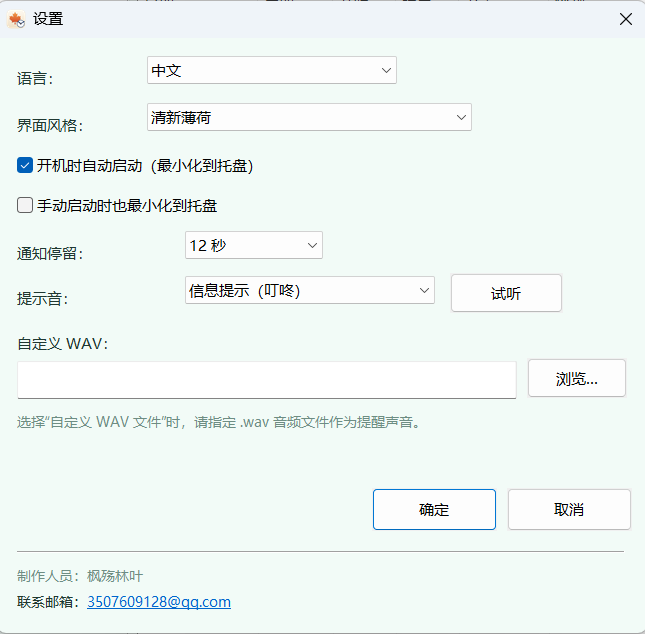
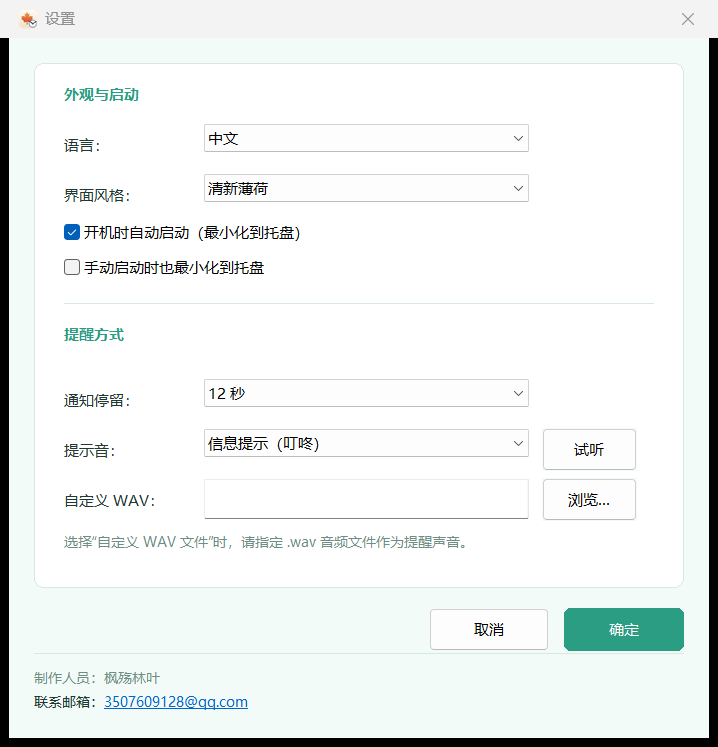
设置窗口改为与主界面统一的卡片式两栏布局，适配中日英三语

diff --git a/main.cpp b/main.cpp
@@ -1,4 +1,4 @@
-/*
+/*
 ============================================================================
   时间管理器（Time-Manager）v2
 ----------------------------------------------------------------------------
@@ -324,6 +324,7 @@ static const wchar_t* g_fontFamily = L"Microsoft YaHei UI";
 static int    g_dpi = 96;
 static HBRUSH g_hBgBrush = NULL;    /* 主窗口页面底色 */
 static HBRUSH g_hDlgBrush = NULL;   /* 对话框底色 */
+static HBRUSH g_hCardBrush = NULL;  /* 对话框卡片底色 */
 static const struct Theme* g_theme = NULL;
 
 static HWND   g_hMain = NULL;
@@ -491,6 +492,8 @@ enum { LANG_ZH = 0, LANG_JA = 1, LANG_EN = 2, LANG_COUNT = 3 };
     X(ERR_TIME_ORDER,  L"结束时间不能早于开始时间。", L"終了時刻は開始時刻より後にしてください。", L"The end time cannot be earlier than the start time.") \
     X(ERR_TITLE_EMPTY, L"请填写任务标题。", L"タイトルを入力してください。", L"Please enter a title.") \
     X(SET_TITLE,       L"设置", L"設定", L"Settings") \
+    X(SET_SEC_APPEAR,  L"外观与启动", L"外観と起動", L"Appearance & Startup") \
+    X(SET_SEC_ALERT,   L"提醒方式", L"通知", L"Notifications") \
     X(SET_LANG,        L"语言：", L"言語：", L"Language:") \
     X(SET_THEME,       L"界面风格：", L"テーマ：", L"Theme:") \
     X(THEME_CLASSIC,   L"经典白", L"クラシック", L"Classic") \
@@ -502,7 +505,7 @@ enum { LANG_ZH = 0, LANG_JA = 1, LANG_EN = 2, LANG_COUNT = 3 };
     X(LANG_EN,         L"English", L"English", L"English") \
     X(SET_AUTOSTART,   L"开机时自动启动（最小化到托盘）", L"ログイン時に自動起動（トレイに最小化）", L"Start automatically at login (minimized to tray)") \
     X(SET_MINSTART,    L"手动启动时也最小化到托盘", L"手動起動時もトレイに最小化", L"Also minimize to tray on manual start") \
-    X(SET_DURATION,    L"通知停留：", L"通知の表示時間：", L"Show notification for:") \
+    X(SET_DURATION,    L"通知停留：", L"通知の表示：", L"Show for:") \
     X(SET_SECONDS,     L"%d 秒", L"%d 秒", L"%d sec") \
     X(SET_SOUND,       L"提示音：", L"通知音：", L"Sound:") \
     X(SND_MUTE,        L"静音（不播放）", L"消音（再生しない）", L"Mute") \
@@ -2855,14 +2858,124 @@ void ShowAddDialog(void)
 
 /*============================= “设置”窗口 =============================*/
 
+/* 卡片式布局参数：创建控件与自绘卡片共用同一套坐标 */
+#define SETDLG_CW        S(560)
+#define SETDLG_CH        S(560)
+#define SETDLG_M         S(20)
+#define SETDLG_CARD_W    S(520)
+#define SETDLG_CARD_H    S(420)
+#define SETDLG_PX        S(24)
+#define SETDLG_LABEL_X   (SETDLG_M + SETDLG_PX)
+#define SETDLG_CTRL_X    (SETDLG_LABEL_X + S(112))
+#define SETDLG_CTRL_W    S(260)
+#define SETDLG_BTN_W     S(96)
+#define SETDLG_BTN_H     S(34)
+
+/* 白色圆角卡片 + 1px 边框，与主界面日历卡片同一视觉语言 */
+static void SetDlgFillCard(HDC hdc, const RECT* rc)
+{
+    HBRUSH br = CreateSolidBrush(g_theme->card);
+    HPEN pen = CreatePen(PS_SOLID, 1, g_theme->border);
+    HGDIOBJ oldBrush = SelectObject(hdc, br);
+    HGDIOBJ oldPen = SelectObject(hdc, pen);
+    RoundRect(hdc, rc->left, rc->top, rc->right, rc->bottom, S(14), S(14));
+    SelectObject(hdc, oldBrush);
+    SelectObject(hdc, oldPen);
+    DeleteObject(br);
+    DeleteObject(pen);
+}
+
+static void SetDlgHairline(HDC hdc, int x1, int x2, int y)
+{
+    RECT rc;
+    SetRect(&rc, x1, y, x2, y + 1);
+    HBRUSH br = CreateSolidBrush(g_theme->border);
+    FillRect(hdc, &rc, br);
+    DeleteObject(br);
+}
+
+/* 对话框背景：卡片 + 分区标题 + 两条分隔线 */
+static void SetDlgPaint(HWND hWnd)
+{
+    PAINTSTRUCT ps;
+    HDC hdc = BeginPaint(hWnd, &ps);
+
+    RECT rc;
+    GetClientRect(hWnd, &rc);
+    FillRect(hdc, &rc, g_hDlgBrush);
+
+    RECT card;
+    SetRect(&card, SETDLG_M, SETDLG_M,
+        SETDLG_M + SETDLG_CARD_W, SETDLG_M + SETDLG_CARD_H);
+    SetDlgFillCard(hdc, &card);
+
+    HGDIOBJ oldFont = SelectObject(hdc, g_fontBold);
+    SetBkMode(hdc, TRANSPARENT);
+    SetTextColor(hdc, g_theme->accent);
+
+    RECT t;
+    SetRect(&t, SETDLG_LABEL_X, SETDLG_M + S(12),
+        SETDLG_M + SETDLG_CARD_W - SETDLG_PX, SETDLG_M + S(38));
+    DrawTextW(hdc, Str(STR_SET_SEC_APPEAR), -1, &t,
+        DT_LEFT | DT_VCENTER | DT_SINGLELINE | DT_NOPREFIX);
+
+    SetRect(&t, SETDLG_LABEL_X, SETDLG_M + S(204),
+        SETDLG_M + SETDLG_CARD_W - SETDLG_PX, SETDLG_M + S(230));
+    DrawTextW(hdc, Str(STR_SET_SEC_ALERT), -1, &t,
+        DT_LEFT | DT_VCENTER | DT_SINGLELINE | DT_NOPREFIX);
+
+    SelectObject(hdc, oldFont);
+
+    /* 分组分隔线 + 页脚分隔线 */
+    SetDlgHairline(hdc, SETDLG_LABEL_X, SETDLG_M + SETDLG_CARD_W - SETDLG_PX,
+        SETDLG_M + S(192));
+    SetDlgHairline(hdc, SETDLG_M, SETDLG_M + SETDLG_CARD_W,
+        SETDLG_M + SETDLG_CARD_H + S(52));
+
+    EndPaint(hWnd, &ps);
+}
+
+/* 主按钮：强调色填充 + 白字；其余按钮保持系统原生风格 */
+static void SetDlgDrawOk(LPDRAWITEMSTRUCT dis)
+{
+    COLORREF fill = (dis->itemState & ODS_SELECTED)
+        ? g_theme->accentDark : g_theme->accent;
+    HBRUSH br = CreateSolidBrush(fill);
+    HPEN pen = CreatePen(PS_SOLID, 1, fill);
+    HGDIOBJ oldBrush = SelectObject(dis->hDC, br);
+    HGDIOBJ oldPen = SelectObject(dis->hDC, pen);
+    RECT rc = dis->rcItem;
+    RoundRect(dis->hDC, rc.left, rc.top, rc.right, rc.bottom, S(10), S(10));
+    SelectObject(dis->hDC, oldBrush);
+    SelectObject(dis->hDC, oldPen);
+    DeleteObject(br);
+    DeleteObject(pen);
+
+    wchar_t text[64];
+    GetWindowTextW(dis->hwndItem, text, 64);
+    SetBkMode(dis->hDC, TRANSPARENT);
+    SetTextColor(dis->hDC, RGB(255, 255, 255));
+    HGDIOBJ oldFont = SelectObject(dis->hDC, g_fontUi);
+    DrawTextW(dis->hDC, text, -1, &rc, DT_CENTER | DT_VCENTER | DT_SINGLELINE);
+    if (dis->itemState & ODS_FOCUS)
+    {
+        RECT f = rc;
+        InflateRect(&f, -S(4), -S(4));
+        DrawFocusRect(dis->hDC, &f);
+    }
+    SelectObject(dis->hDC, oldFont);
+}
+
 static BOOL SetDlg_OnCreate(HWND hWnd)
 {
     g_dlgSet = g_set;
 
-    CreateLabel(hWnd, Str(STR_SET_LANG), S(16), S(18), S(100), S(28));
+    /* —— 外观与启动 —— */
+    CreateLabel(hWnd, Str(STR_SET_LANG), SETDLG_LABEL_X, SETDLG_M + S(52),
+        S(112), S(28));
     HWND hLang = CreateWindowExW(0, L"COMBOBOX", L"",
         WS_CHILD | WS_VISIBLE | WS_TABSTOP | CBS_DROPDOWNLIST | WS_VSCROLL,
-        S(120), S(14), S(200), S(260),
+        SETDLG_CTRL_X, SETDLG_M + S(49), SETDLG_CTRL_W, S(240),
         hWnd, (HMENU)(LONG_PTR)IDC_SET_LANG, g_hInst, NULL);
     SendMessageW(hLang, CB_ADDSTRING, 0, (LPARAM)Str(STR_LANG_ZH));
     SendMessageW(hLang, CB_ADDSTRING, 0, (LPARAM)Str(STR_LANG_JA));
@@ -2873,42 +2986,45 @@ static BOOL SetDlg_OnCreate(HWND hWnd)
     }
     SendMessageW(hLang, CB_SETCURSEL, g_dlgSet.lang, 0);
 
-    /* 界面风格 */
-    CreateLabel(hWnd, Str(STR_SET_THEME), S(16), S(56), S(100), S(28));
-    HWND hTheme = CreateWindowExW(0, L"COMBOBOX", L"",
+    CreateLabel(hWnd, Str(STR_SET_THEME), SETDLG_LABEL_X, SETDLG_M + S(92),
+        S(112), S(28));
+    HWND hThemeBox = CreateWindowExW(0, L"COMBOBOX", L"",
         WS_CHILD | WS_VISIBLE | WS_TABSTOP | CBS_DROPDOWNLIST | WS_VSCROLL,
-        S(120), S(52), S(260), S(260),
+        SETDLG_CTRL_X, SETDLG_M + S(89), SETDLG_CTRL_W, S(240),
         hWnd, (HMENU)(LONG_PTR)IDC_SET_THEME, g_hInst, NULL);
     for (int i = 0; i < THEME_COUNT; i++)
     {
-        SendMessageW(hTheme, CB_ADDSTRING, 0, (LPARAM)ThemeStr(i));
+        SendMessageW(hThemeBox, CB_ADDSTRING, 0, (LPARAM)ThemeStr(i));
     }
     if (g_dlgSet.theme < 0 || g_dlgSet.theme >= THEME_COUNT)
     {
         g_dlgSet.theme = THEME_DEFAULT;
     }
-    SendMessageW(hTheme, CB_SETCURSEL, g_dlgSet.theme, 0);
+    SendMessageW(hThemeBox, CB_SETCURSEL, g_dlgSet.theme, 0);
 
     CreateWindowExW(0, L"BUTTON", Str(STR_SET_AUTOSTART),
         WS_CHILD | WS_VISIBLE | WS_TABSTOP | BS_AUTOCHECKBOX,
-        S(16), S(88), S(480), S(28),
+        SETDLG_LABEL_X, SETDLG_M + S(122), S(436), S(26),
         hWnd, (HMENU)(LONG_PTR)IDC_SET_AUTO, g_hInst, NULL);
     Button_SetCheck(GetDlgItem(hWnd, IDC_SET_AUTO),
         g_dlgSet.autostart ? BST_CHECKED : BST_UNCHECKED);
 
     CreateWindowExW(0, L"BUTTON", Str(STR_SET_MINSTART),
         WS_CHILD | WS_VISIBLE | WS_TABSTOP | BS_AUTOCHECKBOX,
-        S(16), S(120), S(480), S(28),
+        SETDLG_LABEL_X, SETDLG_M + S(150), S(436), S(26),
         hWnd, (HMENU)(LONG_PTR)IDC_SET_MIN, g_hInst, NULL);
     Button_SetCheck(GetDlgItem(hWnd, IDC_SET_MIN),
         g_dlgSet.minStart ? BST_CHECKED : BST_UNCHECKED);
 
-    CreateLabel(hWnd, Str(STR_SET_DURATION), S(16), S(158), S(130), S(28));
+    /* —— 提醒方式 —— */
+    const int durList[6] = { 8, 10, 12, 15, 20, 30 };
+
+    CreateLabel(hWnd, Str(STR_SET_DURATION), SETDLG_LABEL_X, SETDLG_M + S(256),
+        S(112), S(28));
     HWND hDur = CreateWindowExW(0, L"COMBOBOX", L"",
         WS_CHILD | WS_VISIBLE | WS_TABSTOP | CBS_DROPDOWNLIST | WS_VSCROLL,
-        S(150), S(154), S(110), S(260),
+        SETDLG_CTRL_X, SETDLG_M + S(253), SETDLG_CTRL_W, S(240),
         hWnd, (HMENU)(LONG_PTR)IDC_SET_DUR, g_hInst, NULL);
-    const int durList[6] = { 8, 10, 12, 15, 20, 30 };
     for (int i = 0; i < 6; i++)
     {
         wchar_t t[32];
@@ -2924,10 +3040,11 @@ static BOOL SetDlg_OnCreate(HWND hWnd)
         SendMessageW(hDur, CB_SETCURSEL, 2, 0);
     }
 
-    CreateLabel(hWnd, Str(STR_SET_SOUND), S(16), S(194), S(130), S(28));
+    CreateLabel(hWnd, Str(STR_SET_SOUND), SETDLG_LABEL_X, SETDLG_M + S(296),
+        S(112), S(28));
     HWND hSound = CreateWindowExW(0, L"COMBOBOX", L"",
         WS_CHILD | WS_VISIBLE | WS_TABSTOP | CBS_DROPDOWNLIST | WS_VSCROLL,
-        S(150), S(190), S(200), S(260),
+        SETDLG_CTRL_X, SETDLG_M + S(293), SETDLG_CTRL_W, S(240),
         hWnd, (HMENU)(LONG_PTR)IDC_SET_SOUND, g_hInst, NULL);
     for (int i = 0; i <= SOUND_WAV; i++)
     {
@@ -2941,39 +3058,39 @@ static BOOL SetDlg_OnCreate(HWND hWnd)
 
     CreateWindowExW(0, L"BUTTON", Str(STR_SET_TEST),
         WS_CHILD | WS_VISIBLE | WS_TABSTOP | BS_PUSHBUTTON,
-        S(362), S(188), S(90), S(32),
+        SETDLG_CTRL_X + SETDLG_CTRL_W + S(10), SETDLG_M + S(292), S(76), S(34),
         hWnd, (HMENU)(LONG_PTR)IDC_SET_TEST, g_hInst, NULL);
 
-    CreateLabel(hWnd, Str(STR_SET_WAV), S(16), S(230), S(130), S(28));
+    CreateLabel(hWnd, Str(STR_SET_WAV), SETDLG_LABEL_X, SETDLG_M + S(336),
+        S(112), S(28));
     CreateWindowExW(WS_EX_CLIENTEDGE, L"EDIT", g_dlgSet.wavPath,
         WS_CHILD | WS_VISIBLE | WS_TABSTOP | ES_AUTOHSCROLL,
-        S(16), S(258), S(400), S(30),
+        SETDLG_CTRL_X, SETDLG_M + S(333), SETDLG_CTRL_W, S(32),
         hWnd, (HMENU)(LONG_PTR)IDC_SET_WAV, g_hInst, NULL);
     CreateWindowExW(0, L"BUTTON", Str(STR_SET_BROWSE),
         WS_CHILD | WS_VISIBLE | WS_TABSTOP | BS_PUSHBUTTON,
-        S(424), S(256), S(80), S(32),
+        SETDLG_CTRL_X + SETDLG_CTRL_W + S(10), SETDLG_M + S(332), S(76), S(34),
         hWnd, (HMENU)(LONG_PTR)IDC_SET_BROWSE, g_hInst, NULL);
 
-    CreateHint(hWnd, Str(STR_SET_HINT), S(16), S(298), S(488), S(46), IDC_SET_HINT);
+    CreateHint(hWnd, Str(STR_SET_HINT), SETDLG_LABEL_X, SETDLG_M + S(374),
+        S(448), S(44), IDC_SET_HINT);
 
+    /* —— 底部按钮：确定（强调色）/ 取消 —— */
     CreateWindowExW(0, L"BUTTON", Str(STR_OK),
-        WS_CHILD | WS_VISIBLE | WS_TABSTOP | BS_DEFPUSHBUTTON,
-        S(300), S(360), S(100), S(34),
+        WS_CHILD | WS_VISIBLE | WS_TABSTOP | BS_OWNERDRAW,
+        SETDLG_M + SETDLG_CARD_W - SETDLG_BTN_W,
+        SETDLG_M + SETDLG_CARD_H + S(16), SETDLG_BTN_W, SETDLG_BTN_H,
         hWnd, (HMENU)(LONG_PTR)IDC_SET_OK, g_hInst, NULL);
     CreateWindowExW(0, L"BUTTON", Str(STR_CANCEL),
         WS_CHILD | WS_VISIBLE | WS_TABSTOP | BS_PUSHBUTTON,
-        S(408), S(360), S(100), S(34),
+        SETDLG_M + SETDLG_CARD_W - SETDLG_BTN_W * 2 - S(12),
+        SETDLG_M + SETDLG_CARD_H + S(16), SETDLG_BTN_W, SETDLG_BTN_H,
         hWnd, (HMENU)(LONG_PTR)IDC_SET_CANCEL, g_hInst, NULL);
 
-    /* 分隔线 + 制作人员 / 联系邮箱 */
-    CreateWindowExW(0, L"STATIC", L"",
-        WS_CHILD | WS_VISIBLE | SS_ETCHEDHORZ,
-        S(16), S(410), S(488), 1,
-        hWnd, (HMENU)(LONG_PTR)IDC_SEPARATOR, g_hInst, NULL);
-
+    /* —— 页脚：制作人员 / 联系邮箱 —— */
     CreateWindowExW(0, L"STATIC", Str(STR_CREDITS_AUTHOR),
         WS_CHILD | WS_VISIBLE | SS_LEFT | SS_CENTERIMAGE,
-        S(16), S(418), S(488), S(22),
+        SETDLG_M, SETDLG_M + SETDLG_CARD_H + S(60), SETDLG_CARD_W, S(22),
         hWnd, (HMENU)(LONG_PTR)IDC_SET_CREDITS, g_hInst, NULL);
 
     wchar_t emailText[256];
@@ -2981,7 +3098,7 @@ static BOOL SetDlg_OnCreate(HWND hWnd)
         L"3507609128@qq.com", L"3507609128@qq.com");
     CreateWindowExW(0, WC_LINK, emailText,
         WS_CHILD | WS_VISIBLE | WS_TABSTOP,
-        S(16), S(442), S(488), S(24),
+        SETDLG_M, SETDLG_M + SETDLG_CARD_H + S(82), SETDLG_CARD_W, S(22),
         hWnd, (HMENU)(LONG_PTR)IDC_SET_EMAIL, g_hInst, NULL);
 
     EnumChildWindows(hWnd, SetFontToChild, (LPARAM)g_fontUi);
@@ -3117,12 +3234,38 @@ LRESULT CALLBACK SetDlgProc(HWND hWnd, UINT message, WPARAM wParam, LPARAM lPara
         SetDlg_OnCreate(hWnd);
         return 0;
 
+    case WM_PAINT:
+        SetDlgPaint(hWnd);
+        return 0;
+
     case WM_ERASEBKGND:
     {
         RECT rc;
         GetClientRect(hWnd, &rc);
         FillRect((HDC)wParam, &rc, g_hDlgBrush);
         return 1;
+    }
+
+    case WM_DRAWITEM:
+    {
+        LPDRAWITEMSTRUCT dis = (LPDRAWITEMSTRUCT)lParam;
+        if (dis->CtlID == IDC_SET_OK)
+        {
+            SetDlgDrawOk(dis);
+            return TRUE;
+        }
+        break;
+    }
+
+    case WM_CTLCOLORBTN:
+    {
+        int id = GetDlgCtrlID((HWND)lParam);
+        HBRUSH br = (id == IDC_SET_AUTO || id == IDC_SET_MIN)
+            ? g_hCardBrush : g_hDlgBrush;
+        SetBkColor((HDC)wParam, (id == IDC_SET_AUTO || id == IDC_SET_MIN)
+            ? g_theme->card : g_theme->dialogBg);
+        SetTextColor((HDC)wParam, g_theme->text);
+        return (LRESULT)br;
     }
 
     case WM_CTLCOLORSTATIC:
@@ -3137,8 +3280,20 @@ LRESULT CALLBACK SetDlgProc(HWND hWnd, UINT message, WPARAM wParam, LPARAM lPara
         {
             SetTextColor((HDC)wParam, g_theme->text);
         }
-        return (LRESULT)g_hDlgBrush;
+        if (id == IDC_SET_CREDITS || id == IDC_SET_EMAIL)
+        {
+            return (LRESULT)g_hDlgBrush;
+        }
+        return (LRESULT)g_hCardBrush;
     }
+
+    case WM_KEYDOWN:
+        if (wParam == VK_RETURN)
+        {
+            OnSetOk(hWnd);
+            return 0;
+        }
+        break;
 
     case WM_NOTIFY:
     {
@@ -3187,7 +3342,7 @@ void ShowSettingsDialog(void)
     DWORD style = WS_POPUP | WS_CAPTION | WS_SYSMENU;
     DWORD exStyle = WS_EX_DLGMODALFRAME;
     RECT wr;
-    SetRect(&wr, 0, 0, S(520), S(476));
+    SetRect(&wr, 0, 0, SETDLG_CW, SETDLG_CH);
     AdjustWindowRectEx(&wr, style, FALSE, exStyle);
 
     g_hSet = CreateWindowExW(
@@ -5092,6 +5247,13 @@ void ApplyTheme(void)
         DeleteObject(oldDlg);
     }
 
+    HBRUSH oldCard = g_hCardBrush;
+    g_hCardBrush = CreateSolidBrush(g_theme->card);
+    if (oldCard != NULL)
+    {
+        DeleteObject(oldCard);
+    }
+
     if (g_hMain == NULL)
     {
         return;
@@ -6283,6 +6445,7 @@ int WINAPI wWinMain(HINSTANCE hInstance, HINSTANCE hPrevInstance,
     g_theme = &g_themes[g_set.theme];
     g_hBgBrush = CreateSolidBrush(g_theme->page);
     g_hDlgBrush = CreateSolidBrush(g_theme->dialogBg);
+    g_hCardBrush = CreateSolidBrush(g_theme->card);
 
     /* 单实例 */
     HANDLE hMutex = CreateMutexW(NULL, TRUE, L"TimeManeger_SingleInstance_Mutex_v2");

diff --git a/README.md b/README.md
@@ -1,4 +1,4 @@
-# 时间管理器 · Time-Manager
+# 时间管理器 · Time-Manager
 
 <p align="center">
   <img src="docs/icon.png" width="128" alt="Time-Manager 图标">
@@ -30,6 +30,7 @@
 - **开机自启**：写入当前用户注册表 `HKCU\...\Run`，可选择启动时最小化
 - **多语言**：设置中可切换中文 / 日本語 / English，点“确定”后立即生效
 - **界面风格**：内置 经典白 / 清新薄荷 / 奶油晨光 / 樱粉初雪 四套主题，设置中切换后立即应用并保存；默认使用“清新薄荷”
+- **统一的设置窗口**：设置改为与主界面同风格的卡片式布局——左侧标签、右侧控件的两栏对齐，分组标题用主题色，分隔线为浅色细线，“确定”按钮为主题色填充；中 / 日 / 英三种语言下都不截断
 - **本地数据**：`tasks.dat` / `settings.dat` 保存在 exe 同目录，UTF-8 编码，不联网、无遥测
 
 ![设置界面](docs/screenshot-settings.png)
